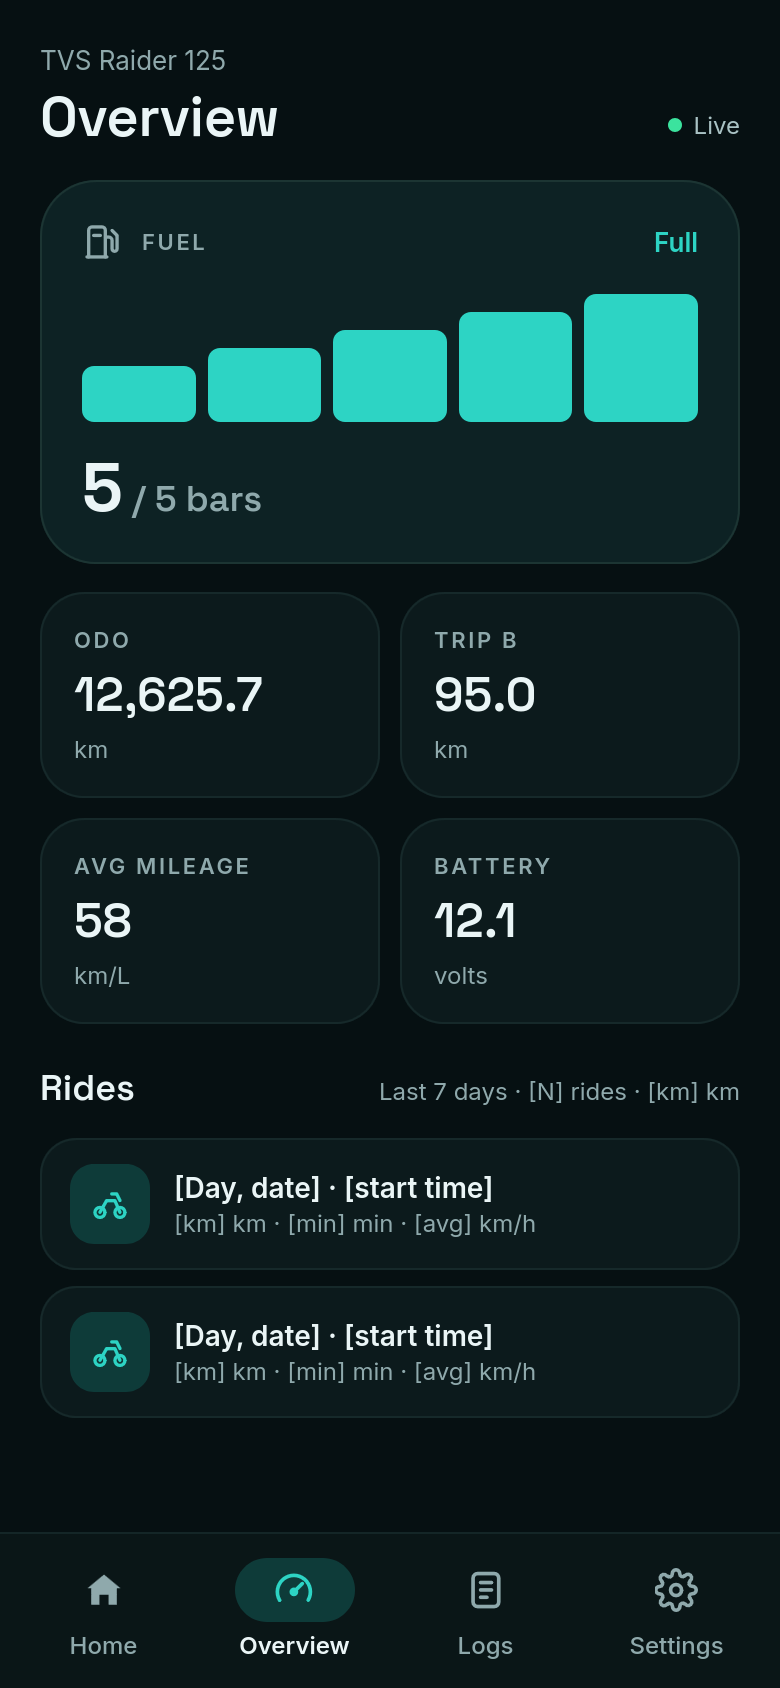
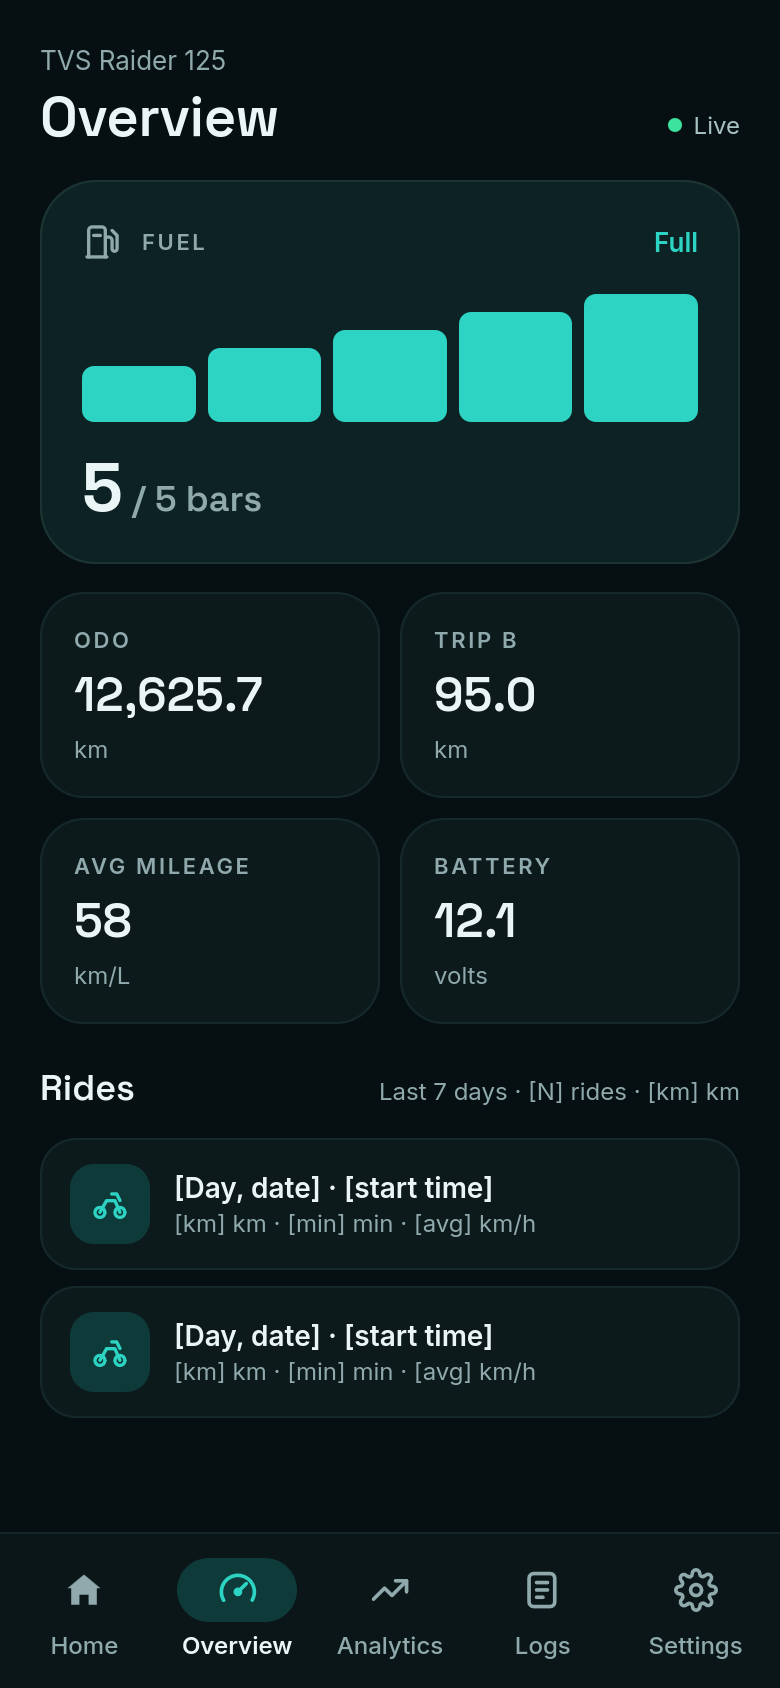
Update the README, site and screenshots for 0.3.0-beta.1.
New screenshots for every tab, including Analytics; the site's feature cards and README describe ride analytics, the notification Disconnect button and the log tools. build.sh now defaults to 0.3.0-beta.1, code 4.

diff --git a/docs/index.html b/docs/index.html
@@ -111,7 +111,7 @@
 
   /* screenshots: one dark and one light image per screen, the theme picks which shows */
   .shots { display: flex; flex-wrap: wrap; justify-content: center; gap: 16px; margin: 64px 0; }
-  .shots figure { margin: 0; width: calc((100% - 4 * 16px) / 5); }
+  .shots figure { margin: 0; width: calc((100% - 5 * 16px) / 6); }
   .shots img {
     width: 100%; height: auto; display: block; border-radius: 20px;
     border: 1px solid var(--line);
@@ -202,17 +202,22 @@
       <figcaption>Overview</figcaption>
     </figure>
     <figure>
+      <img class="dark" src="screens/analytics-dark.png" width="780" height="1688" alt="Analytics screen: distance for the week with the change from last week, rides, riding time, speeds, mileage and a distance chart">
+      <img class="light" src="screens/analytics-light.png" width="780" height="1688" alt="Analytics screen, light theme" loading="lazy">
+      <figcaption>Analytics</figcaption>
+    </figure>
+    <figure>
       <img class="dark" src="screens/settings-dark.png" width="780" height="1688" alt="Settings screen: bike, Mirror navigation, Ride mode and alerts">
       <img class="light" src="screens/settings-light.png" width="780" height="1688" alt="Settings screen, light theme" loading="lazy">
       <figcaption>Settings</figcaption>
     </figure>
     <figure>
-      <img class="dark" src="screens/settings-more-dark.png" width="780" height="1688" alt="Settings screen scrolled: speed alert, low fuel warning and appearance">
+      <img class="dark" src="screens/settings-more-dark.png" width="780" height="1688" alt="Settings screen scrolled: appearance, setup, data and developer options with log saving, export and delete">
       <img class="light" src="screens/settings-more-light.png" width="780" height="1688" alt="Settings screen scrolled, light theme" loading="lazy">
       <figcaption>Settings</figcaption>
     </figure>
     <figure>
-      <img class="dark" src="screens/logs-dark.png" width="780" height="1688" alt="Logs screen: bike data written in plain words">
+      <img class="dark" src="screens/logs-dark.png" width="780" height="1688" alt="Logs screen: the live log, filtered by bike data, Maps or status">
       <img class="light" src="screens/logs-light.png" width="780" height="1688" alt="Logs screen, light theme" loading="lazy">
       <figcaption>Logs</figcaption>
     </figure>
@@ -222,11 +227,11 @@
   <div class="grid">
     <div class="card"><span class="icon"><svg viewBox="0 0 24 24" fill="none" stroke="currentColor" stroke-width="2.2" stroke-linecap="round" stroke-linejoin="round"><path d="M12 21s-7-6.2-7-12a7 7 0 0 1 14 0c0 5.8-7 12-7 12z"/><circle cx="12" cy="9" r="2.5"/></svg></span><div><b>Your Google Maps</b><p>No separate maps, no downloads, no account.</p></div></div>
     <div class="card"><span class="icon"><svg viewBox="0 0 24 24" fill="none" stroke="currentColor" stroke-width="2.2" stroke-linecap="round" stroke-linejoin="round"><path d="M13 2L4 14h7l-1 8 9-12h-7l1-8z"/></svg></span><div><b>Starts by itself</b><p>Connects to the bike when you start navigating.</p></div></div>
-    <div class="card"><span class="icon"><svg viewBox="0 0 24 24" fill="none" stroke="currentColor" stroke-width="2.2" stroke-linecap="round" stroke-linejoin="round"><path d="M3 21h11"/><path d="M4 21V5a2 2 0 0 1 2-2h6a2 2 0 0 1 2 2v16"/><path d="M4 10h10"/><path d="M14 8h2a2 2 0 0 1 2 2v6a1.5 1.5 0 0 0 3 0V9l-3-3"/></svg></span><div><b>Bike data at a glance<span class="new">New</span></b><p>Fuel, odometer, trip B, average mileage and battery, read live from the bike.</p></div></div>
-    <div class="card"><span class="icon"><svg viewBox="0 0 24 24" fill="none" stroke="currentColor" stroke-width="2.2" stroke-linecap="round" stroke-linejoin="round"><path d="M6 8a6 6 0 0 1 12 0c0 7 3 9 3 9H3s3-2 3-9"/><path d="M10.3 21a1.9 1.9 0 0 0 3.4 0"/></svg></span><div><b>Speed and fuel alerts<span class="new">New</span></b><p>The phone vibrates at the speed you set, even on silent, and warns you when fuel runs low.</p></div></div>
-    <div class="card"><span class="icon"><svg viewBox="0 0 24 24" fill="none" stroke="currentColor" stroke-width="2.2" stroke-linecap="round" stroke-linejoin="round"><path d="M12 13l4-4"/><path d="M3.5 17a9 9 0 1 1 17 0"/></svg></span><div><b>Keeps your rides</b><p>Distance, time and speed from the bike's own sensors.</p></div></div>
-    <div class="card"><span class="icon"><svg viewBox="0 0 24 24" fill="none" stroke="currentColor" stroke-width="2.2" stroke-linecap="round" stroke-linejoin="round"><path d="M9 11V5.5a1.5 1.5 0 0 1 3 0V10"/><path d="M12 9.5a1.5 1.5 0 0 1 3 0V11"/><path d="M15 10.5a1.5 1.5 0 0 1 3 0V15a6 6 0 0 1-6 6h-1a6 6 0 0 1-4.6-2.2L4 15.5a1.5 1.5 0 0 1 2.3-1.9L9 16"/></svg></span><div><b>Easier to use<span class="new">New</span></b><p>Asks you to turn on Bluetooth if it's off, and tapping the navigation card opens the trip in Google Maps.</p></div></div>
-    <div class="card"><span class="icon"><svg viewBox="0 0 24 24" fill="none" stroke="currentColor" stroke-width="2.2" stroke-linecap="round" stroke-linejoin="round"><circle cx="12" cy="12" r="9"/><path d="M12 3a9 9 0 0 0 0 18z" fill="currentColor"/></svg></span><div><b>Dark or light<span class="new">New</span></b><p>Dark, light, follow your phone, or let it go dark by itself from 6 PM to 6 AM.</p></div></div>
+    <div class="card"><span class="icon"><svg viewBox="0 0 24 24" fill="none" stroke="currentColor" stroke-width="2.2" stroke-linecap="round" stroke-linejoin="round"><path d="M3 21h11"/><path d="M4 21V5a2 2 0 0 1 2-2h6a2 2 0 0 1 2 2v16"/><path d="M4 10h10"/><path d="M14 8h2a2 2 0 0 1 2 2v6a1.5 1.5 0 0 0 3 0V9l-3-3"/></svg></span><div><b>Bike data at a glance</b><p>Fuel, odometer, trip B, average mileage and battery, read live from the bike.</p></div></div>
+    <div class="card"><span class="icon"><svg viewBox="0 0 24 24" fill="none" stroke="currentColor" stroke-width="2.2" stroke-linecap="round" stroke-linejoin="round"><path d="M6 8a6 6 0 0 1 12 0c0 7 3 9 3 9H3s3-2 3-9"/><path d="M10.3 21a1.9 1.9 0 0 0 3.4 0"/></svg></span><div><b>Speed and fuel alerts</b><p>The phone vibrates at the speed you set, even on silent, and warns you when fuel runs low.</p></div></div>
+    <div class="card"><span class="icon"><svg viewBox="0 0 24 24" fill="none" stroke="currentColor" stroke-width="2.2" stroke-linecap="round" stroke-linejoin="round"><path d="M3 17l6-6 4 4 8-8"/><path d="M15 7h6v6"/></svg></span><div><b>Ride analytics<span class="new">New</span></b><p>Every ride kept. Distance, riding time, speed and mileage by week, month, year or all time, with a chart.</p></div></div>
+    <div class="card"><span class="icon"><svg viewBox="0 0 24 24" fill="none" stroke="currentColor" stroke-width="2.2" stroke-linecap="round" stroke-linejoin="round"><path d="M9 11V5.5a1.5 1.5 0 0 1 3 0V10"/><path d="M12 9.5a1.5 1.5 0 0 1 3 0V11"/><path d="M15 10.5a1.5 1.5 0 0 1 3 0V15a6 6 0 0 1-6 6h-1a6 6 0 0 1-4.6-2.2L4 15.5a1.5 1.5 0 0 1 2.3-1.9L9 16"/></svg></span><div><b>Easier to use</b><p>Asks you to turn on Bluetooth if it's off, and tapping the navigation card opens the trip in Google Maps.</p></div></div>
+    <div class="card"><span class="icon"><svg viewBox="0 0 24 24" fill="none" stroke="currentColor" stroke-width="2.2" stroke-linecap="round" stroke-linejoin="round"><circle cx="12" cy="12" r="9"/><path d="M12 3a9 9 0 0 0 0 18z" fill="currentColor"/></svg></span><div><b>Dark or light</b><p>Dark, light, follow your phone, or let it go dark by itself from 6 PM to 6 AM.</p></div></div>
     <div class="card"><span class="icon"><svg viewBox="0 0 24 24" fill="none" stroke="currentColor" stroke-width="2.2" stroke-linecap="round" stroke-linejoin="round"><rect x="4" y="10" width="16" height="11" rx="2.5"/><path d="M8 10V7a4 4 0 0 1 8 0v3"/></svg></span><div><b>Fully private</b><p>No internet permission. Nothing leaves your phone.</p></div></div>
   </div>
 

diff --git a/README.md b/README.md
@@ -18,23 +18,27 @@ The next turn, how far to it, and how long to go, on the bike's own screen, with
 <p align="center">
   <picture>
     <source media="(prefers-color-scheme: light)" srcset="docs/screens/home-light.png">
-    <img src="docs/screens/home-dark.png" width="18%" alt="Home screen while navigating: next turn, time left, fuel, mileage, battery and speed">
+    <img src="docs/screens/home-dark.png" width="15%" alt="Home screen while navigating: next turn, time left, fuel, mileage, battery and speed">
   </picture>
   <picture>
     <source media="(prefers-color-scheme: light)" srcset="docs/screens/overview-light.png">
-    <img src="docs/screens/overview-dark.png" width="18%" alt="Overview screen: fuel bars, odometer, trip B, average mileage, battery and rides">
+    <img src="docs/screens/overview-dark.png" width="15%" alt="Overview screen: fuel bars, odometer, trip B, average mileage, battery and rides">
+  </picture>
+  <picture>
+    <source media="(prefers-color-scheme: light)" srcset="docs/screens/analytics-light.png">
+    <img src="docs/screens/analytics-dark.png" width="15%" alt="Analytics screen: distance for the week with the change from last week, rides, riding time, speeds, mileage and a distance chart">
   </picture>
   <picture>
     <source media="(prefers-color-scheme: light)" srcset="docs/screens/settings-light.png">
-    <img src="docs/screens/settings-dark.png" width="18%" alt="Settings screen: bike, Mirror navigation, Ride mode and alerts">
+    <img src="docs/screens/settings-dark.png" width="15%" alt="Settings screen: bike, Mirror navigation, Ride mode and alerts">
   </picture>
   <picture>
     <source media="(prefers-color-scheme: light)" srcset="docs/screens/settings-more-light.png">
-    <img src="docs/screens/settings-more-dark.png" width="18%" alt="Settings screen scrolled: speed alert, low fuel warning and appearance">
+    <img src="docs/screens/settings-more-dark.png" width="15%" alt="Settings screen scrolled: appearance, setup, data and developer options with log saving, export and delete">
   </picture>
   <picture>
     <source media="(prefers-color-scheme: light)" srcset="docs/screens/logs-light.png">
-    <img src="docs/screens/logs-dark.png" width="18%" alt="Logs screen: bike data written in plain words">
+    <img src="docs/screens/logs-dark.png" width="15%" alt="Logs screen: the live log, filtered by bike data, Maps or status">
   </picture>
 </p>
 
@@ -53,17 +57,22 @@ cluster instead.
 - **Starts by itself.** When you start navigation in Google Maps, Disha connects to the
   bike on its own. Switch the ignition off and on, and it reconnects within
   seconds. Tap the navigation card in Disha to jump back to the trip in
-  Google Maps.
+  Google Maps, or **Disconnect** on Disha's notification to stop it.
 - **Shows your bike's data.** Fuel, odometer, trip B, average mileage and
   battery voltage, read live from the bike.
 - **Warns you.** The phone vibrates when you reach a speed you set, even on
   silent, and you get a notification when the fuel runs low.
-- **Keeps your rides.** Every ride is recorded from the bike's own speed and
-  odometer: distance, time, average and top speed.
+- **Keeps your rides, all of them.** Every ride is recorded from the bike's own
+  speed and odometer. **Analytics** shows your distance for the week, month,
+  year or all time, how it compares with the period before, riding time,
+  average and top speed, mileage, and a chart of the distance per day or month.
 - **Works your way.** Switch off **Mirror navigation** to keep turns off the
   cluster, or **Ride mode** to stop Disha reconnecting after a phone restart.
   Pick a dark or light look, follow the phone, or let **Auto** go dark from
   6 PM to 6 AM.
+- **Helps with bug reports.** **Settings › Developer options** saves the log
+  as one file per day (the last 7 days are kept), and exports them as a zip
+  to attach to an issue.
 - **Nothing leaves your phone.** Disha has no internet permission at all.
 
 ## Get started
@@ -88,7 +97,7 @@ cluster instead.
 > It may work on other SmartXonnect bikes, but that is not tested or guaranteed, and
 > support for other bikes is not planned. If something
 > looks wrong, please [open an issue](https://github.com/sameeramperera/Disha/issues)
-> and attach the log (**Share log** in the app).
+> and attach the log (**Settings › Developer options › Export logs** in the app).
 
 
 ## How it works
@@ -125,10 +134,11 @@ bikes are not planned.
 ## Privacy and permissions
 
 Disha has **no internet permission**. It cannot send anything anywhere. There
-is no account, no cloud and no analytics. Everything stays on your phone:
+is no account, no cloud and no tracking. Everything stays on your phone:
 
 - Your bike and your rides are saved inside the app.
-- The log is kept on the phone, and leaves it only when you tap **Share log**.
+- The log is kept on the phone, and leaves it only when you tap **Export logs**
+  (Settings › Developer options). Turn off **Save logs to a file** there to stop keeping it.
   It explains the bike's data in plain words, and can be filtered to bike
   data, Maps or status lines.
 
@@ -156,7 +166,7 @@ Needs only Java 17 or newer. No Android Studio, no Gradle.
 
 ```sh
 tools/fetch.sh                  # downloads the Android build tools, once
-./build.sh 0.2.0-beta.1 3       # version name, version code
+./build.sh 0.3.0-beta.1 4       # version name, version code
 ```
 
 The signed APK is written to `Disha.apk`. The keystore password is read from
